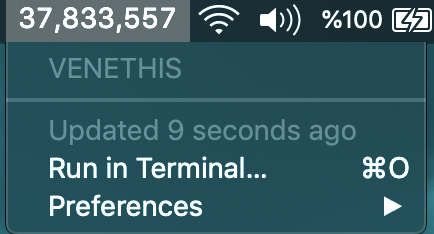
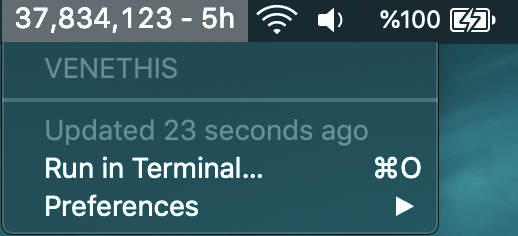
Show latest tweet timestamp with tweet count

diff --git a/display-tweet-count.py b/display-tweet-count.py
@@ -17,8 +17,9 @@ html_page = urllib2.urlopen(req)
 
 if html_page.getcode() == 200:
     soup = BeautifulSoup(html_page,"html.parser")
+    latest_tweet_time = soup.find('td', attrs={'class':'timestamp'})
     tweet_count = soup.find('div', attrs={'class':'statnum'})
-    print tweet_count.string.rstrip("\n\r")
+    print tweet_count.string.rstrip("\n\r") + " - " + latest_tweet_time.text.lstrip("\n\r").rstrip("\n\r")
  #   for div in soup.find_all('div', attrs={'class':'statnum'}):
  #       print div.string
 else:
@@ -26,4 +27,3 @@ else:
 
 print "---"
 print username
-

diff --git a/README.md b/README.md
@@ -54,7 +54,7 @@ commands['Hw'] = 'echo HelloWorld'
 
 ## 03-Display Tweet Count of Twitter Account
 
-Plugin to display tweet count of twitter account.
+Plugin to display tweet count of twitter account with latest tweet's timestamp.
 
 Set `username`variable in [display-tweet-count.py](/display-tweet-count.py) file.
 
